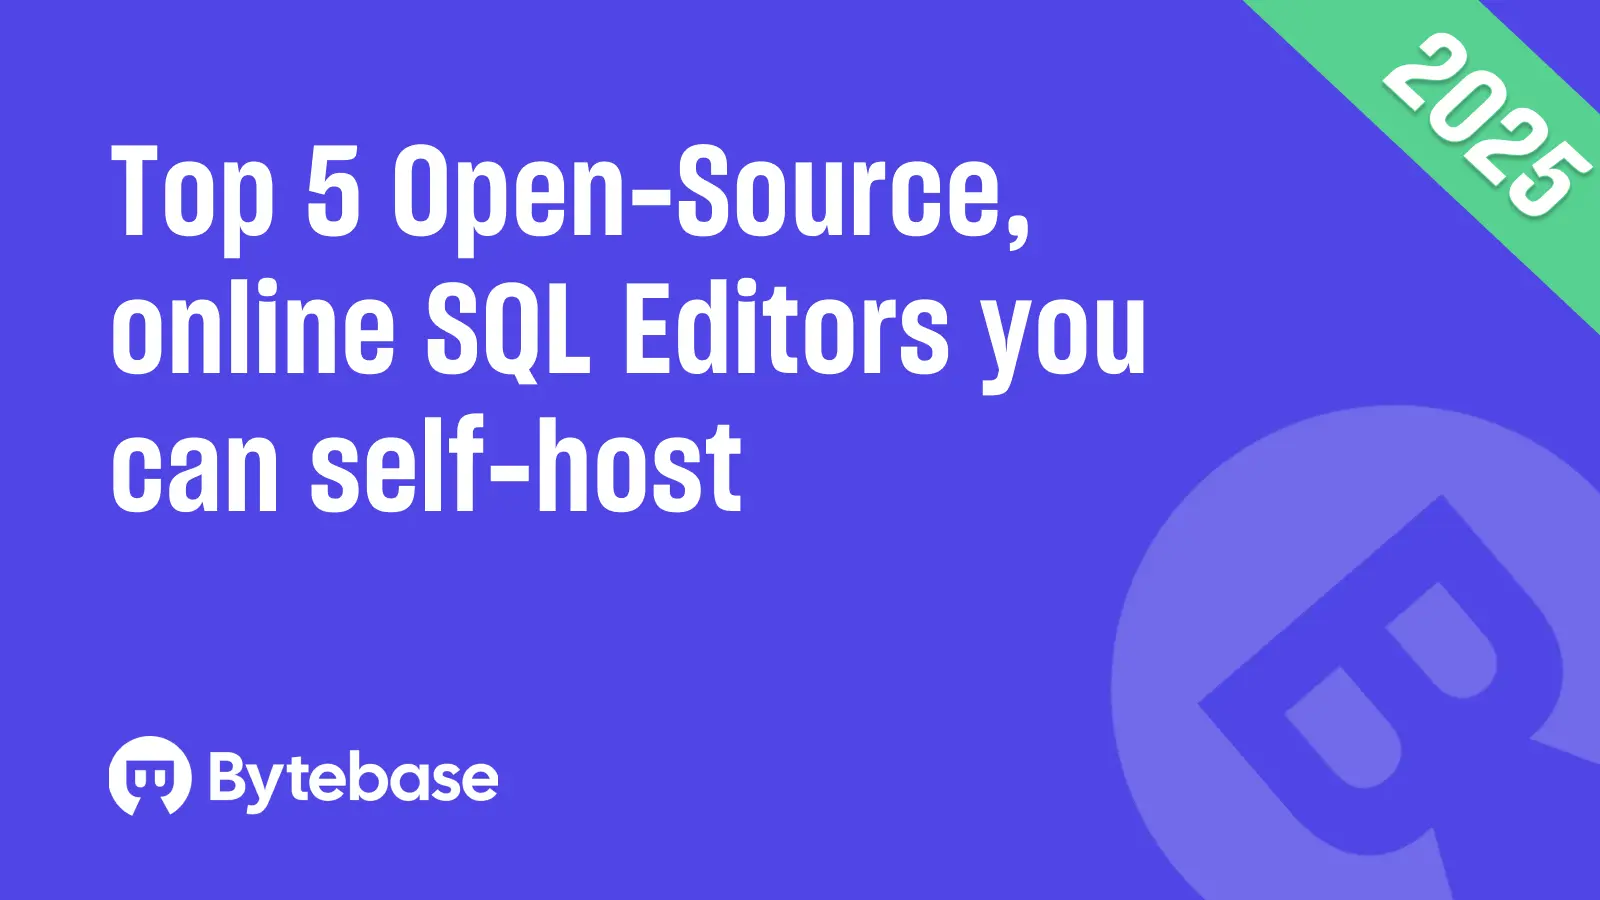
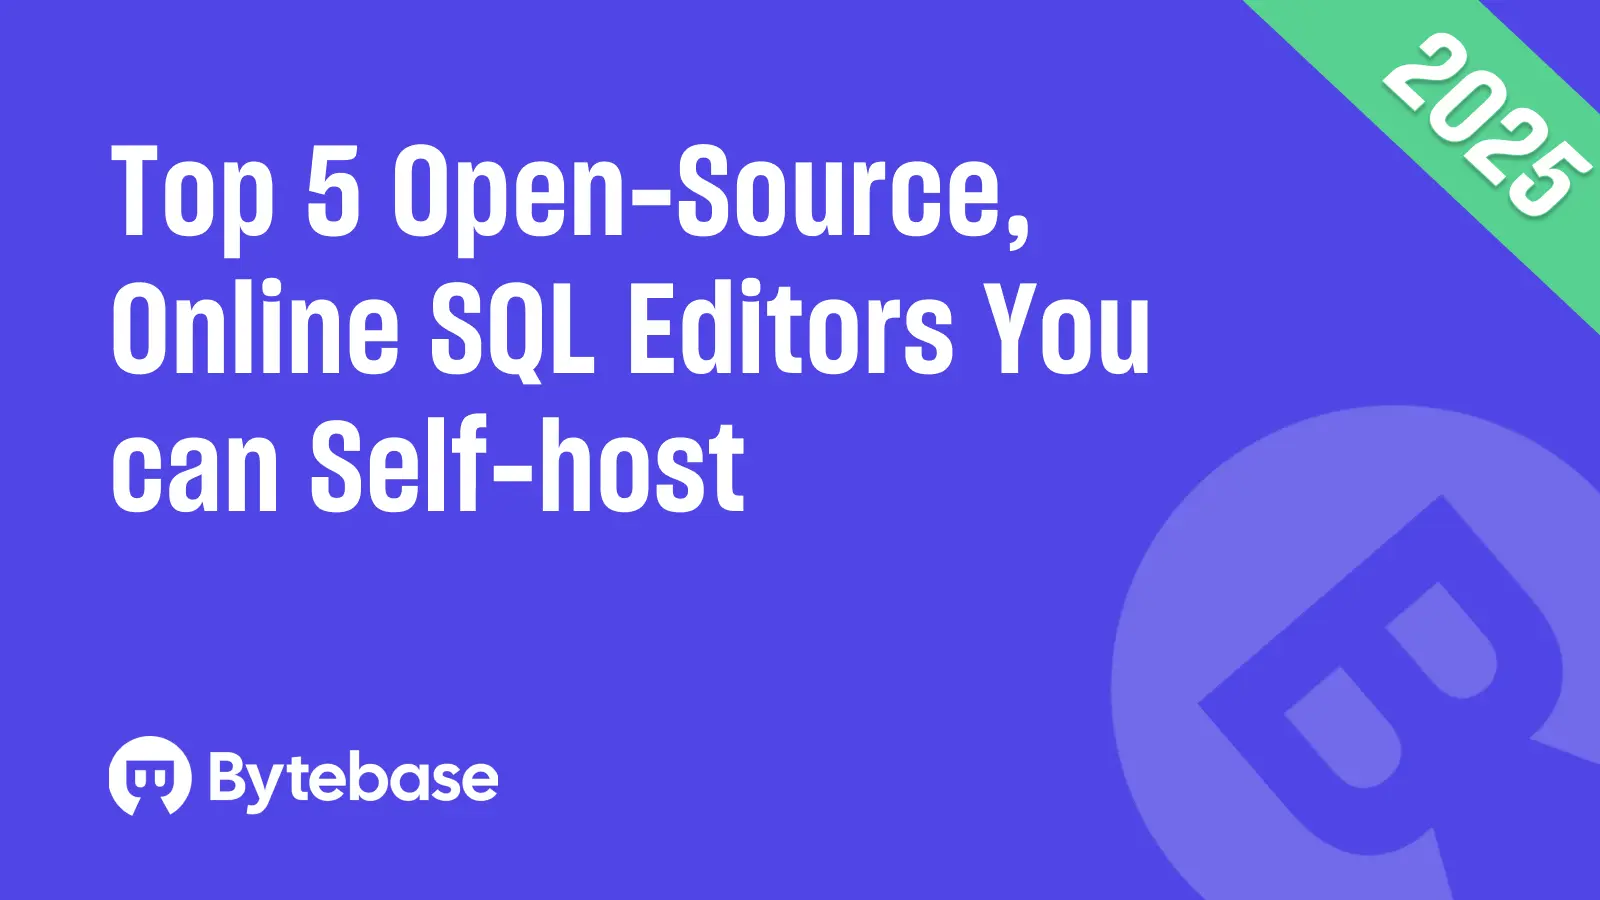
chore: minor tweak

Changed region(s): [[0.0625, 0.3111, 0.7188, 0.4356], [0.1875, 0.4667, 0.4688, 0.56]]

diff --git a/content/blog/top-open-source-online-sql-editors.md b/content/blog/top-open-source-online-sql-editors.md
@@ -1,5 +1,5 @@
 ---
-title: Top 5 Open Source, online SQL Editors you can self-host
+title: Top 5 Open Source, Online SQL Editors You can Self-host
 author: Tianzhou
 updated_at: 2025/02/25 09:00:00
 feature_image: /content/blog/top-open-source-online-sql-editors/banner.webp
